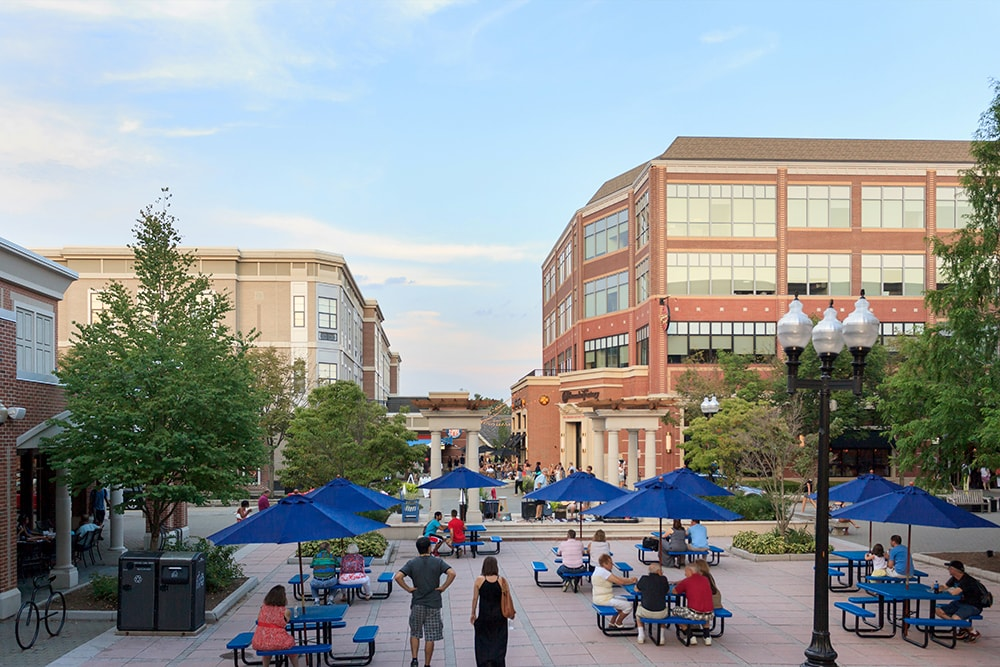
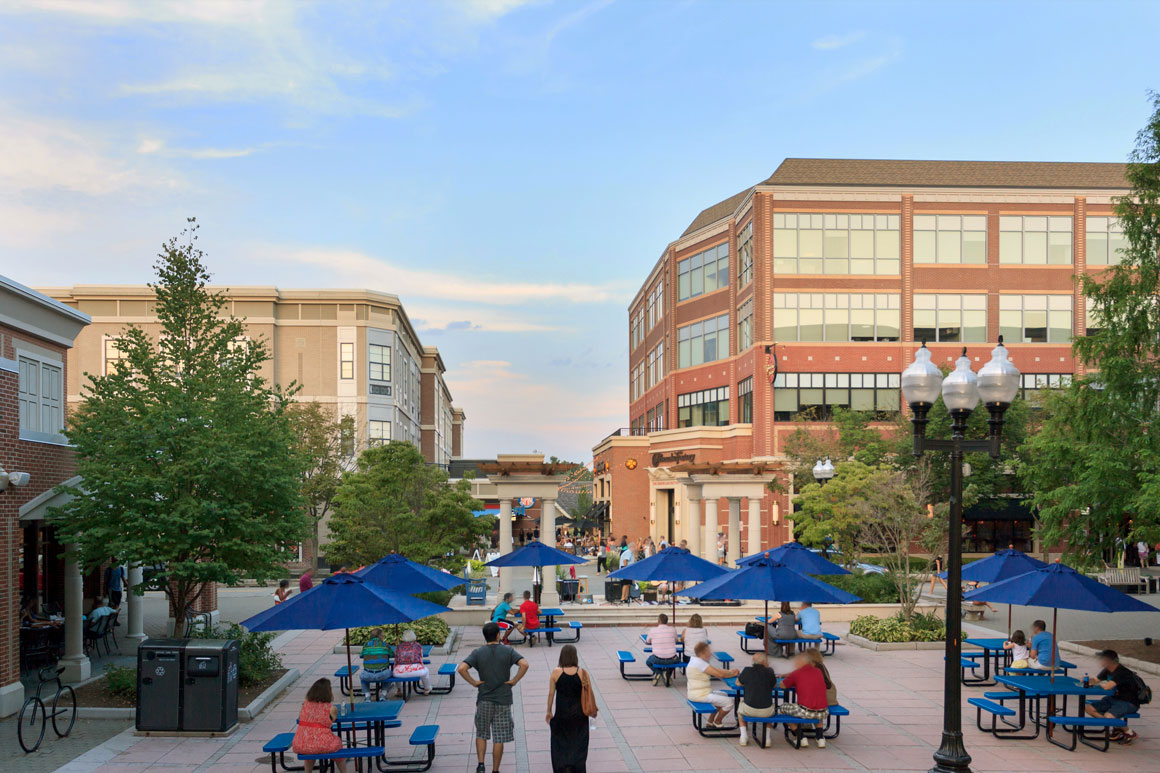
Footer redesign, hi-res amenity photos, floor plans hidden

diff --git a/src/assets/scss/theme/base.scss b/src/assets/scss/theme/base.scss
@@ -51,9 +51,9 @@ body.is-locked {
 
 .page-footer {
   @extend %bishops-pattern;
-  padding: 50px 25px;
+  padding: 50px 25px 15px;
   position: relative;
-  text-align: center;
+  text-align: left;
   background-color: $gray;
   background-image: url('../img/tile-bishops-b-dark.gif');
   background-size: 75px;
@@ -63,48 +63,64 @@ body.is-locked {
 }
 .page-footer__heading {
   color: #ffffff;
-  font-size: 1em;
+  font-size: 1.25em;
   font-weight: 400;
   text-transform: uppercase;
+  font-family: $serif;
 }
-.page-footer__contact {
+.page-footer__list-heading {
+    text-transform: uppercase;
+    letter-spacing: 2px !important;
+    font-family: $serif;
+    font-size: .8em !important;
+    line-height: 2em !important;
+}
+.page-footer__contact, .page-footer__address {
   margin-top: 6px;
   color: #ffffff;
+  float: left;
+  padding: 20px 60px 30px 0;
   li {
     display: block;
-    font-size: 0.8em;
+    font-size: 1em;
     font-style: normal;
     font-weight: 300;
+    line-height: 1.4em;
     letter-spacing: 0.5px;
     vertical-align: middle;
   }
-  small {
-    display: inline-block;
-    font-size: 0.6em;
-    vertical-align: middle;
+  @media (max-width:480px) {
+    padding: 20px 0px 20px 0;
   }
 }
 .page-footer__legal {
-  display: inline-block;
-  margin-top: 10px;
   color: #ffffff;
   font-size: 0.65em;
+  padding-right: 15px;
+  @media (max-width:640px) {
+    padding-bottom: 20px;
+    display: inline-block;
+  }
 }
 .page-footer__eho {
-  display: block;
-  height: 20px;
-  margin: 20px auto 0;
+  height: 15px;
+  float: right
 }
 .page-footer__attribution {
   display: inline-block;
-  position: absolute;
-  bottom: 10px;left: 10px;
+  position: relative;
+  width: 100%;
+
   a {
     color: #ffffff;
     font-family: $sans-serif;
-    font-size: 0.70rem;
+    font-size: 0.60rem;
     font-weight: 300;
-    letter-spacing: 1px !important;
+    letter-spacing: 2px !important;
     text-transform: uppercase;
-  }
+      @media (max-width:640px) {
+        display: inline-block;
+        clear: both;
+      }
+   }
 }

diff --git a/src/templates/structures/footer.html b/src/templates/structures/footer.html
@@ -1,13 +1,21 @@
 <footer id="footer" class="page-footer">
-      <h3 class="page-footer__heading">Bishops Place Apartments</h3>
+      <h3 class="page-footer__heading">Leasing Office</h3>
       <address>
          <ul class="page-footer__contact">
-            <li>2432 Albany Ave. / West Hartford, CT 06117</li>
-            <li><a href="mailto:contact@liveatbishopsplace.com">contact<small>@</small>liveatbishopsplace.com</a></li>
-            <li><a href="tel:+18605195540">860.519.5540</a></li>
+            <li class="page-footer__list-heading">Address</li>
+            <li>2432 Albany Avenue</li>
+            <li>West Hartford, CT 06117</li>
+         </ul>
+         <ul class="page-footer__address">
+            <li class="page-footer__list-heading">Contact</li>
+            <li><a href="tel:+18605195540">860.519.5540</a></li> 
+            <li><a href="mailto:contact@liveatbishopsplace.com">contact@liveatbishopsplace.com</a></li>
          </ul>
       </address>
-      <span class="page-footer__legal">&#169; 2432 Albany Avenue LLC. All rights reserved.</span>
-      <img class="page-footer__eho" src="assets/img/icon-equal-housing.svg" alt="Equal Housing Opportunity">
-      <span class="page-footer__attribution"><a href="http://www.primarydesign.com">Website by Primary</a></span>
+      <span class="page-footer__attribution">
+          <span class="page-footer__legal">&#169; 2432 Albany Avenue LLC. All rights reserved.</span>
+          <a href="http://www.primarydesign.com">Website by Primary</a> 
+          <img class="page-footer__eho" src="assets/img/icon-equal-housing.svg" alt="Equal Housing Opportunity">
+      </span>
+      
 </footer>

diff --git a/src/templates/floor-plans.html b/src/templates/floor-plans.html
@@ -62,6 +62,7 @@
    </div>
   <div class="carousel--bullets"></div>
 </figure>
+<!--
 <div class="floorplansTable">
   <form class="floorplansTable--options">
     <label class="floorplansTable--option"><input type="checkbox" name="floorplans" value="0"><div><span>Studio</span></div></label>
@@ -86,4 +87,5 @@
   </div>
    <p class="floorplansTable--disclaimer">* These floor plans are a sample representation of the apartment types. Please <a class="mobile-nav--link" data-scry="#contact">contact</a> Bishops Place for more available floor plans and rental information.</p>
 </div>
+-->
 </section>

diff --git a/src/assets/scss/modules/contact-form.scss b/src/assets/scss/modules/contact-form.scss
@@ -21,14 +21,16 @@
   padding: 30px;
   color: rgba($gray, 0.9);
   font-family: $serif;
-  font-size: 1.75em;
+  font-size: 1.5em;
   font-weight: 400;
-  letter-spacing: 1.5px;
+  letter-spacing: 1px;
   text-align: center;
   text-transform: uppercase;
   background-color: rgba($gray, 0.2);
   background-image: url('../img/tile-bishops-b-gray.gif');
   background-size: 60px;
+  -webkit-font-smoothing: antialiased;
+  -moz-osx-font-smoothing: grayscale;
   small {
     font-size: 0.6em;
     vertical-align: middle;

diff --git a/src/index.html b/src/index.html
@@ -5,6 +5,7 @@
     <meta name="viewport" content="maximum-scale=1,width=device-width,initial-scale=1,user-scalable=0">
 		<title>Bishops Place</title>
 		<link rel="stylesheet" href="assets/css/index.css">
+        <link href='https://fonts.googleapis.com/css?family=Libre+Baskerville' rel='stylesheet' type='text/css'>
 	</head>
 	<body class="page">
     <div class="page--wrapper constrained">

diff --git a/src/assets/scss/modules/gallery-expose.scss b/src/assets/scss/modules/gallery-expose.scss
@@ -15,8 +15,7 @@
   @extend %valign-content;
   height: 100%;
   margin: 0 auto;
-  max-width: 900px;
-  width: 100%;
+  max-width: 1160px;
 }
 .gallery-expose__wrapper {
   height: 0;
@@ -24,6 +23,9 @@
   padding-top: calc(100% * (3.36 / 6.103));
   position: relative;
   width: 100%;
+  @media (min-width: 1160px) {
+      height: 773px;
+    }
 }
 .gallery-expose__track {
   height: 100%;

diff --git a/src/assets/scss/modules/amenities-gallery.scss b/src/assets/scss/modules/amenities-gallery.scss
@@ -1,3 +1,6 @@
+#amenities {
+    padding-top: 30px;
+}
 .amenities-gallery {}
 .gallery__track {
   display: flex;
@@ -68,6 +71,8 @@
   letter-spacing: 0.6px;
   text-transform: uppercase;
   transition: opacity 200ms ease;
+  -webkit-font-smoothing: antialiased;
+  -moz-osx-font-smoothing: grayscale;
 }
 .amenity-card__caption {
   @extend %valign-text;

diff --git a/src/assets/scss/theme/navbar.scss b/src/assets/scss/theme/navbar.scss
@@ -50,6 +50,8 @@
   letter-spacing: .025rem;
   line-height: 40px;
   text-transform: uppercase;
+  -webkit-font-smoothing: antialiased;
+  -moz-osx-font-smoothing: grayscale;
     @media (min-width:769px) and (max-width: 900px) {
         font-size: .7em;
         font-weight: 400;

diff --git a/src/assets/scss/modules/heroes.scss b/src/assets/scss/modules/heroes.scss
@@ -16,4 +16,6 @@ $trans-ui: 300ms ease;
   position: absolute;
   font-family: $serif;
   letter-spacing: 1.5px;
+  -webkit-font-smoothing: antialiased;
+  -moz-osx-font-smoothing: grayscale;
 }

diff --git a/src/assets/scss/modules/gallery.scss b/src/assets/scss/modules/gallery.scss
@@ -26,4 +26,3 @@
     }
   }
 }
-
